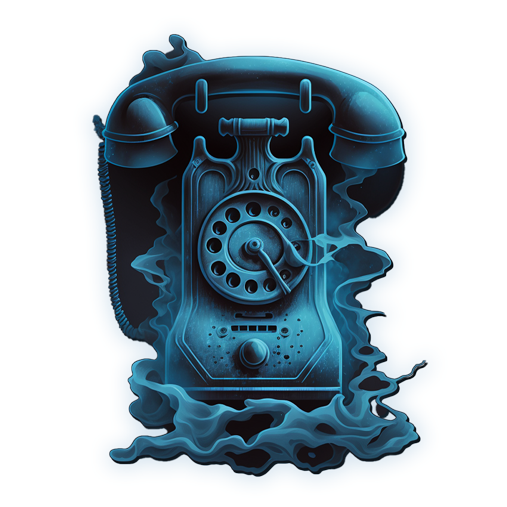
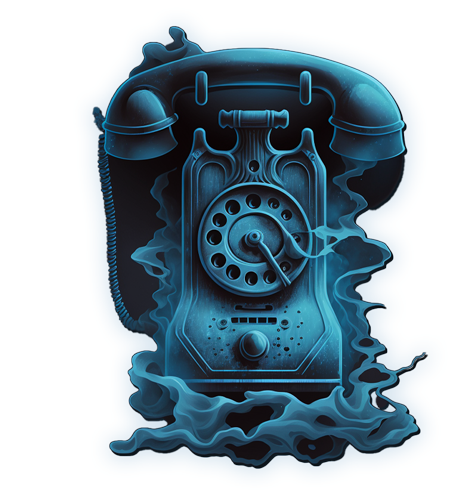
Update Contact Page Form
Image changes and CSS styling for both desktop and mobile

diff --git a/styles/home-style.css b/styles/home-style.css
@@ -18,6 +18,10 @@ h4 {
   font-family: var(--heading-font-family);
 }
 
+form {
+  margin-right: 100px;
+}
+
 footer.container {
   background-color: #2b3035;
   max-width: 100%;
@@ -159,6 +163,7 @@ li {
   form {
     font-size: 12px;
     padding: 0 10px;
+    margin-right: 0px;
     text-align: left;
   }
 
@@ -171,7 +176,7 @@ li {
   }
 
   .contact-image {
-    width: 50%;
+    width: 70%;
     display: block;
     margin: 0 auto;
   }
